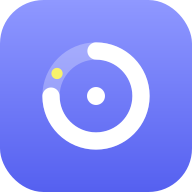
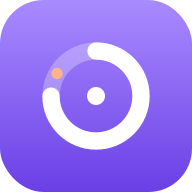
Puasain: palet baru (ungu, mint, coral), beda dari Sehatin
Claude-Session: https://claude.ai/code/session_01NoEHkLCHZJrxCxK8EqiQgr

diff --git a/puasain/index.html b/puasain/index.html
@@ -6,7 +6,7 @@
 
 <!-- PWA -->
 <link rel="manifest" href="manifest.json">
-<meta name="theme-color" content="#F4EFE6">
+<meta name="theme-color" content="#F3F0FA">
 <meta name="mobile-web-app-capable" content="yes">
 <meta name="apple-mobile-web-app-capable" content="yes">
 <meta name="apple-mobile-web-app-status-bar-style" content="black-translucent">
@@ -24,20 +24,20 @@
 <style>
 /* ═══ TOKEN — sama dengan Sehatin (light + dark), ditambah warna Puasain ═══ */
 :root{
-  --cream:#F4EFE6; --white:#FFFFFF; --dark:#1A1A1A; --gray:#888; --gray-light:#E8E3DA;
-  --yellow:#EDE84A; --pink:#F0A8C2; --pink-soft:#FAD9EA; --green:#AEDBA6; --green-dark:#4A8E42;
-  --blue-soft:#C2DFF7; --red:#E53935;
-  --fast:#5B66F0; --fast-soft:#E1E3FF; --eat:#4A8E42; --ink:#1A1A1A;
-  --input-bg:#F4EFE6; --input-focus:#EDEAE0;
+  --cream:#F3F0FA; --white:#FFFFFF; --dark:#1C1530; --gray:#847F96; --gray-light:#E7E2F3;
+  --warm:#FF9B71; --peach:#FFC4A8; --peach-soft:#FFE3D6; --mint:#BDEBDD; --mint-dark:#1F7A63;
+  --lilac-soft:#E4DCFF;
+  --fast:#6A45F0; --fast-soft:#E6DFFF; --eat:#1F9A7E; --ink:#1C1530;
+  --input-bg:#F3F0FA; --input-focus:#EAE5F7;
   --radius:28px; --radius-sm:18px; --nav-h:74px;
   --font:'Plus Jakarta Sans',sans-serif;
   --spring:cubic-bezier(.34,1.56,.64,1); --ease-out:cubic-bezier(.22,1,.36,1);
 }
 body.dark{
-  --cream:#212223; --white:#2B2D33; --dark:#F0EDE6; --gray:#9b9aa1; --gray-light:#3A393D;
-  --yellow:#F8F26C; --pink:#FCD1E6; --pink-soft:#FCD1E6; --green:#96DA7D; --green-dark:#1F4A17;
-  --blue-soft:#ADD8FD; --input-bg:#332E2D; --input-focus:#3A393D; --ink:#212223;
-  --fast:#8E97FF; --fast-soft:#3A3D63; --eat:#96DA7D;
+  --cream:#14101F; --white:#201A33; --dark:#EFEAFB; --gray:#9A95AE; --gray-light:#322A4A;
+  --warm:#FFA67F; --peach:#FFC4A8; --peach-soft:#FFC4A8; --mint:#7FE0C3; --mint-dark:#0F4A3B;
+  --lilac-soft:#C9BBFF; --input-bg:#2A2342; --input-focus:#332B52; --ink:#14101F;
+  --fast:#A78BFA; --fast-soft:#3B2F6B; --eat:#6EE0BE;
 }
 *{margin:0;padding:0;box-sizing:border-box;-webkit-tap-highlight-color:transparent}
 button,input,textarea{font-family:var(--font);outline:none}
@@ -80,8 +80,7 @@ svg{display:block}
 .hero{background:var(--white);border-radius:34px;padding:18px 18px 20px;margin-bottom:12px}
 .hero-top{display:flex;justify-content:space-between;align-items:center;margin-bottom:6px}
 .pill{display:inline-flex;align-items:center;gap:6px;background:var(--fast-soft);color:var(--fast);font-size:12px;font-weight:700;padding:6px 12px;border-radius:30px}
-.pill.eat{background:var(--pink-soft);color:#B03070}
-body.dark .pill.eat{color:#B03070}
+.pill.eat{background:var(--mint);color:var(--mint-dark)}
 .pill .dot{width:7px;height:7px;border-radius:50%;background:currentColor}
 .pill.live .dot{animation:pulse 1.6s ease-in-out infinite}
 @keyframes pulse{0%,100%{opacity:1;transform:scale(1)}50%{opacity:.35;transform:scale(.7)}}
@@ -91,7 +90,7 @@ body.dark .pill.eat{color:#B03070}
 .ring-track{stroke:var(--gray-light)}
 .ring-main{stroke:var(--fast);transition:stroke-dashoffset 1s linear,stroke .3s}
 .ring-main.eat{stroke:var(--eat)}
-.ring-over{stroke:var(--yellow);transition:stroke-dashoffset 1s linear}
+.ring-over{stroke:var(--warm);transition:stroke-dashoffset 1s linear}
 #ring-knob{transform-origin:130px 130px;transition:transform 1s linear}
 .ring-center{position:absolute;inset:0;display:flex;flex-direction:column;align-items:center;justify-content:center;text-align:center;padding:0 40px}
 .rc-label{font-size:11px;font-weight:700;text-transform:uppercase;letter-spacing:.8px;color:var(--gray)}
@@ -106,8 +105,8 @@ body.dark .pill.eat{color:#B03070}
 .btn-ic svg{width:15px;height:15px;fill:var(--dark)}
 .tbox .btn-ic{background:var(--gray-light)}
 .btn-ic:active{transform:scale(.8)}
-.btn-save{width:100%;background:var(--dark);color:var(--yellow);border:none;border-radius:30px;padding:16px;font-size:16px;font-weight:700;cursor:pointer;margin-top:6px;transition:transform .4s var(--spring)}
-body.dark .btn-save{background:var(--yellow);color:var(--ink)}
+.btn-save{width:100%;background:var(--fast);color:#fff;border:none;border-radius:30px;padding:16px;font-size:16px;font-weight:700;cursor:pointer;margin-top:6px;transition:transform .4s var(--spring)}
+body.dark .btn-save{color:var(--ink)}
 .btn-save:active{transform:scale(.96)}
 .btn-cancel-m{width:100%;background:var(--cream);color:var(--gray);border:none;border-radius:30px;padding:13px;font-size:14px;font-weight:600;cursor:pointer;margin-top:8px}
 .btn-link{background:none;border:none;color:var(--gray);font-size:13px;font-weight:600;cursor:pointer;padding:10px;width:100%;margin-top:2px}
@@ -123,31 +122,30 @@ body.dark .btn-save{background:var(--yellow);color:var(--ink)}
 /* ═══ KARTU STAT (gaya Sehatin) ═══ */
 .grid-2{display:grid;grid-template-columns:1fr 1fr;gap:10px;margin-bottom:10px}
 .scard{border-radius:28px;padding:18px;position:relative;overflow:hidden}
-.scard.yellow{background:var(--yellow)}
-.scard.pink{background:var(--pink-soft)}
+.scard.a{background:var(--fast);color:#fff}
+.scard.b{background:var(--lilac-soft);color:#1C1530}
 .scard.dark{background:var(--dark)}
 body.dark .scard.dark{background:var(--white)}
-.scard.yellow,.scard.yellow .scard-num{color:#1A1A1A}
-body.dark .scard.yellow,body.dark .scard.yellow .scard-num{color:#212223}
-.scard.pink{color:#1A1A1A}
-body.dark .scard.pink{color:#212223}
-.scard.dark .scard-label,.scard.dark .scard-unit{color:#F0EDE6}
+body.dark .scard.a{color:var(--ink)}
+.scard.dark .scard-label,.scard.dark .scard-unit{color:#F0EBFF}
 body:not(.dark) .scard.dark .scard-label,body:not(.dark) .scard.dark .scard-unit{color:#fff}
-.scard.dark .scard-num{color:var(--yellow);font-size:26px;letter-spacing:-.5px}
+.scard.dark .scard-num{color:var(--warm);font-size:26px;letter-spacing:-.5px}
 .scard-label{font-size:10px;font-weight:700;text-transform:uppercase;letter-spacing:.8px;opacity:.65;margin-bottom:6px}
 .scard-num{font-size:42px;font-weight:800;line-height:1;letter-spacing:-1px}
 .scard-unit{font-size:12px;opacity:.65;margin-top:3px;font-weight:500}
 .scard-icon{position:absolute;top:16px;right:16px;width:22px;height:22px;opacity:.5;fill:currentColor}
-.scard.pink .scard-icon{fill:#B03070;opacity:.6}
+.scard.b .scard-icon{fill:#6A45F0;opacity:.7}
 .scard-row{display:flex;justify-content:space-between;align-items:center}
-.scard-right{width:38px;height:38px;opacity:.7;fill:var(--fast)}
+.scard-right{width:38px;height:38px;opacity:.7;fill:var(--warm)}
+body.dark .prog-bg{background:rgba(20,16,31,.2)}
+body.dark .prog-fill{background:var(--ink)}
 .prog-label{font-size:11px;opacity:.75;margin:10px 0 5px;font-weight:600}
-.prog-bg{height:6px;background:rgba(0,0,0,.14);border-radius:3px;overflow:hidden}
-.prog-fill{height:100%;background:rgba(0,0,0,.5);border-radius:3px;transition:width .6s}
-.insight-card{background:var(--blue-soft);border-radius:24px;padding:14px 16px;margin-bottom:10px;display:flex;align-items:flex-start;gap:12px;color:#1A1A1A}
-.insight-icon{width:20px;height:20px;flex-shrink:0;margin-top:1px;fill:#1A1A1A}
+.prog-bg{height:6px;background:rgba(255,255,255,.28);border-radius:3px;overflow:hidden}
+.prog-fill{height:100%;background:#fff;border-radius:3px;transition:width .6s}
+.insight-card{background:var(--mint);border-radius:24px;padding:14px 16px;margin-bottom:10px;display:flex;align-items:flex-start;gap:12px;color:#0B2E25}
+.insight-icon{width:20px;height:20px;flex-shrink:0;margin-top:1px;fill:#0B2E25}
 .insight-text{font-size:13px;font-weight:600;line-height:1.5}
-.insight-sub{font-size:11px;font-weight:400;color:#3f566b;margin-top:2px}
+.insight-sub{font-size:11px;font-weight:400;color:#1F5A49;margin-top:2px}
 
 /* ═══ KALENDER ═══ */
 .cal-head{display:flex;align-items:center;justify-content:space-between;margin:4px 0 14px}
@@ -190,8 +188,8 @@ body:not(.dark) .scard.dark .scard-label,body:not(.dark) .scard.dark .scard-unit
 .fr-act{display:flex;gap:6px}
 .fr-act .btn-ic{background:var(--gray-light)}
 .fr-foot{display:flex;gap:6px;flex-wrap:wrap;margin-top:10px}
-.badge{font-size:11px;font-weight:700;padding:4px 11px;border-radius:30px;background:var(--green);color:var(--green-dark)}
-.badge.miss{background:var(--pink-soft);color:#B03070}
+.badge{font-size:11px;font-weight:700;padding:4px 11px;border-radius:30px;background:var(--mint);color:var(--mint-dark)}
+.badge.miss{background:var(--peach-soft);color:#A04A22}
 .badge.n{background:var(--gray-light);color:var(--gray)}
 .badge.live{background:var(--fast-soft);color:var(--fast)}
 .fr-note{font-size:12px;color:var(--gray);margin-top:8px;line-height:1.5;font-style:italic}
@@ -205,7 +203,7 @@ body:not(.dark) .scard.dark .scard-label,body:not(.dark) .scard.dark .scard-unit
 .pills::-webkit-scrollbar{display:none}
 .acc-pill{background:var(--gray-light);border:none;border-radius:50px;padding:9px 18px;font-size:13px;font-weight:700;color:var(--gray);cursor:pointer;white-space:nowrap;flex-shrink:0;transition:background .25s,color .25s,transform .45s var(--spring)}
 .acc-pill:active{transform:scale(.92)}
-.acc-pill.active{background:var(--yellow);color:#1A1A1A}
+.acc-pill.active{background:var(--fast);color:#fff}
 body.dark .acc-pill.active{color:var(--ink)}
 .donut-card{background:var(--white);border-radius:var(--radius);padding:18px;display:flex;align-items:center;gap:18px;margin-bottom:10px}
 .donut{position:relative;width:132px;height:132px;flex-shrink:0}
@@ -225,12 +223,12 @@ body.dark .acc-pill.active{color:var(--ink)}
 .chart-card svg{width:100%;height:auto}
 .chart-card .cb{fill:var(--fast)}
 .chart-card .cb.part{opacity:.5}
-.chart-card .cg{stroke:var(--yellow);stroke-width:2;stroke-dasharray:4 4}
+.chart-card .cg{stroke:var(--warm);stroke-width:2;stroke-dasharray:4 4}
 .chart-card text{fill:var(--gray);font-family:var(--font);font-size:10px;font-weight:600}
 .top-list{display:flex;flex-direction:column;gap:8px}
 .top-item{background:var(--white);border-radius:22px;padding:13px 14px;display:flex;align-items:center;gap:12px}
 .top-rank{font-size:20px;font-weight:800;color:var(--gray-light);width:24px;text-align:center;flex-shrink:0}
-.top-rank.gold{color:var(--yellow)}
+.top-rank.gold{color:var(--warm)}
 .top-info{flex:1}
 .top-name{font-size:14px;font-weight:700}
 .top-cnt{font-size:11px;color:var(--gray);margin-top:1px;font-weight:500}
@@ -248,8 +246,8 @@ body.dark .acc-pill.active{color:var(--ink)}
 .chips{display:flex;flex-wrap:wrap;gap:6px}
 .qchip{background:var(--cream);border:none;border-radius:30px;padding:8px 14px;font-size:13px;font-weight:700;color:var(--dark);cursor:pointer;transition:background .15s,color .15s,transform .4s var(--spring)}
 .qchip:active{transform:scale(.94)}
-.qchip.selected{background:var(--dark);color:var(--yellow)}
-body.dark .qchip.selected{background:var(--yellow);color:var(--ink)}
+.qchip.selected{background:var(--fast);color:#fff}
+body.dark .qchip.selected{color:var(--ink)}
 .set-card .qchip{background:var(--cream)}
 .stepper{display:flex;align-items:center;justify-content:space-between;background:var(--cream);border-radius:22px;padding:8px;margin-top:10px}
 .stepper b{font-size:15px;font-weight:800}
@@ -259,17 +257,17 @@ body.dark .qchip.selected{background:var(--yellow);color:var(--ink)}
 .btn-x{flex:1;display:flex;align-items:center;justify-content:center;gap:7px;border:none;border-radius:28px;padding:13px 10px;font-size:14px;font-weight:700;cursor:pointer;transition:transform .4s var(--spring)}
 .btn-x:active{transform:scale(.96)}
 .btn-x svg{width:16px;height:16px;fill:currentColor}
-.btn-xl{background:#1D6F42;color:#fff}
-.btn-out{background:#FF4C4C;color:#fff}
+.btn-xl{background:var(--fast-soft);color:var(--fast)}
+.btn-out{background:var(--peach-soft);color:#A04A22}
 .btn-gray{background:var(--gray-light);color:var(--dark);width:100%;margin-top:10px}
 
 /* ═══ TAB BAR iOS ═══ */
-.bottom-nav{position:fixed;bottom:calc(16px + env(safe-area-inset-bottom,0px));left:50%;transform:translateX(-50%);width:calc(100% - 32px);max-width:398px;height:var(--nav-h);border-radius:40px;background:rgba(26,26,26,.88);-webkit-backdrop-filter:blur(24px) saturate(1.7);backdrop-filter:blur(24px) saturate(1.7);box-shadow:0 20px 44px -12px rgba(0,0,0,.55),inset 0 1px 0 rgba(255,255,255,.08);display:flex;align-items:center;justify-content:space-around;z-index:100;padding:0 8px}
-body.dark .bottom-nav{background:rgba(51,46,45,.72)}
+.bottom-nav{position:fixed;bottom:calc(16px + env(safe-area-inset-bottom,0px));left:50%;transform:translateX(-50%);width:calc(100% - 32px);max-width:398px;height:var(--nav-h);border-radius:40px;background:rgba(28,21,48,.9);-webkit-backdrop-filter:blur(24px) saturate(1.7);backdrop-filter:blur(24px) saturate(1.7);box-shadow:0 20px 44px -12px rgba(0,0,0,.55),inset 0 1px 0 rgba(255,255,255,.08);display:flex;align-items:center;justify-content:space-around;z-index:100;padding:0 8px}
+body.dark .bottom-nav{background:rgba(42,35,66,.78)}
 .nav-btn{display:flex;flex-direction:column;align-items:center;gap:5px;background:none;border:none;cursor:pointer;padding:9px 6px;border-radius:30px;flex:1;transition:background .35s,transform .5s var(--spring)}
 .nav-btn:active{transform:scale(.88)}
 .nav-btn.active{background:rgba(255,255,255,.14);animation:tab-pop .62s var(--spring)}
-body.dark .nav-btn.active{background:#3A393D}
+body.dark .nav-btn.active{background:#3B2F6B}
 @keyframes tab-pop{0%{transform:scale(.84)}50%{transform:scale(1.07)}100%{transform:scale(1)}}
 .nav-lbl{font-size:9px;font-weight:700;color:var(--gray);letter-spacing:.3px;transition:color .15s}
 .nav-btn.active .nav-lbl{color:#fff}
@@ -281,10 +279,10 @@ body.dark .nav-ic svg{fill:#8f8b8a}
 body.dark .nav-btn.active .nav-ic svg{fill:#F0EDE6}
 .nav-btn.bounce .nav-ic{animation:icon-pop .62s var(--spring) forwards}
 @keyframes icon-pop{0%{transform:scale(.7)}55%{transform:scale(1.25)}100%{transform:scale(1)}}
-.nav-fab{width:54px;height:54px;background:#8E97FF;border-radius:50%;display:flex;align-items:center;justify-content:center;border:none;cursor:pointer;flex-shrink:0;transition:transform .5s var(--spring),background .3s,box-shadow .3s;box-shadow:0 8px 22px -6px rgba(142,151,255,.6)}
+.nav-fab{width:54px;height:54px;background:#B9A4FF;border-radius:50%;display:flex;align-items:center;justify-content:center;border:none;cursor:pointer;flex-shrink:0;transition:transform .5s var(--spring),background .3s,box-shadow .3s;box-shadow:0 8px 22px -6px rgba(185,164,255,.6)}
 .nav-fab:active{transform:scale(.84)}
-.nav-fab svg{width:24px;height:24px;fill:#212223}
-.nav-fab.on{background:#F8F26C;box-shadow:0 8px 22px -6px rgba(248,242,108,.5)}
+.nav-fab svg{width:24px;height:24px;fill:#1C1530}
+.nav-fab.on{background:#FF9B71;box-shadow:0 8px 22px -6px rgba(255,155,113,.55)}
 
 /* ═══ MODAL ═══ */
 .overlay{position:fixed;inset:0;background:rgba(0,0,0,.4);-webkit-backdrop-filter:blur(3px);backdrop-filter:blur(3px);z-index:200;display:none;align-items:flex-end;justify-content:center}
@@ -304,7 +302,7 @@ body.dark .nav-btn.active .nav-ic svg{fill:#F0EDE6}
 body.dark .modal .form-input,body.dark .modal .form-textarea{background:#3A393D;color:#F0EDE6}
 body.dark .modal .form-input:focus,body.dark .modal .form-textarea:focus{background:#444146}
 body.dark .modal .qchip,body.dark .modal .btn-cancel-m{background:#3A393D;color:#d6d4d9}
-body.dark .modal .qchip.selected{background:var(--yellow);color:var(--ink)}
+body.dark .modal .qchip.selected{background:var(--fast);color:var(--ink)}
 .confirm-box{background:var(--white);border-radius:32px;width:calc(100% - 48px);max-width:320px;padding:28px 22px;text-align:center;animation:popIn .25s cubic-bezier(.34,1.5,.64,1)}
 @keyframes popIn{from{transform:scale(.88);opacity:0}to{transform:none;opacity:1}}
 .cf-ic{display:flex;justify-content:center;margin-bottom:10px;color:var(--dark)}
@@ -312,10 +310,10 @@ body.dark .modal .qchip.selected{background:var(--yellow);color:var(--ink)}
 .cf-title{font-size:22px;font-weight:800;margin-bottom:7px;letter-spacing:-.3px}
 .cf-msg{font-size:13px;color:var(--gray);line-height:1.6;margin-bottom:20px}
 .cf-btns{display:flex;gap:8px}
-.btn-dng{flex:1;background:#FF4C4C;color:#fff;border:none;border-radius:24px;padding:13px;font-size:15px;font-weight:700;cursor:pointer}
+.btn-dng{flex:1;background:#E5484D;color:#fff;border:none;border-radius:24px;padding:13px;font-size:15px;font-weight:700;cursor:pointer}
 .btn-neu{flex:1;background:var(--cream);color:var(--dark);border:none;border-radius:24px;padding:13px;font-size:14px;font-weight:600;cursor:pointer}
 body.dark .btn-neu{background:#3A393D;color:#d6d4d9}
-.err{font-size:12px;color:#FF4C4C;font-weight:600;min-height:18px;margin:-4px 0 6px}
+.err{font-size:12px;color:#E5484D;font-weight:600;min-height:18px;margin:-4px 0 6px}
 .toast{position:fixed;bottom:calc(var(--nav-h) + 44px);left:50%;transform:translateX(-50%) translateY(30px);background:var(--dark);color:var(--cream);padding:11px 20px;border-radius:50px;font-size:13px;font-weight:600;z-index:999;opacity:0;pointer-events:none;white-space:nowrap;transition:transform .3s var(--spring),opacity .25s}
 .toast.show{transform:translateX(-50%) translateY(0);opacity:1}
 @media (prefers-reduced-motion:reduce){*{animation:none!important;transition-duration:.01s!important}}
@@ -388,7 +386,7 @@ body.dark .btn-neu{background:#3A393D;color:#d6d4d9}
     <div class="week" id="week"></div>
 
     <div class="grid-2">
-      <div class="scard yellow">
+      <div class="scard a">
         <div class="scard-label">Streak Target</div>
         <div class="scard-num" id="sc-streak">0</div>
         <div class="scard-unit">hari berturut-turut</div>
@@ -396,7 +394,7 @@ body.dark .btn-neu{background:#3A393D;color:#d6d4d9}
         <div class="prog-label" id="sc-prog-l">Mulai streak-mu!</div>
         <div class="prog-bg"><div class="prog-fill" id="sc-prog-f" style="width:0%"></div></div>
       </div>
-      <div class="scard pink">
+      <div class="scard b">
         <div class="scard-label">Rata-rata 7 Hari</div>
         <div class="scard-num" id="sc-avg">0</div>
         <div class="scard-unit">jam / puasa</div>
@@ -572,7 +570,7 @@ const SVG_MOON = '<path d="M240,96a8,8,0,0,1-8,8H216v16a8,8,0,0,1-16,0V104H184a8
 const SVG_SUN = '<path d="M120,40V16a8,8,0,0,1,16,0V40a8,8,0,0,1-16,0Zm72,88a64,64,0,1,1-64-64A64.07,64.07,0,0,1,192,128Zm-16,0a48,48,0,1,0-48,48A48.05,48.05,0,0,0,176,128ZM58.34,69.66A8,8,0,0,0,69.66,58.34l-16-16A8,8,0,0,0,42.34,53.66Zm0,116.68-16,16a8,8,0,0,0,11.32,11.32l16-16a8,8,0,0,0-11.32-11.32ZM192,72a8,8,0,0,0,5.66-2.34l16-16a8,8,0,0,0-11.32-11.32l-16,16A8,8,0,0,0,192,72Zm5.66,114.34a8,8,0,0,0-11.32,11.32l16,16a8,8,0,0,0,11.32-11.32ZM48,128a8,8,0,0,0-8-8H16a8,8,0,0,0,0,16H40A8,8,0,0,0,48,128Zm80,80a8,8,0,0,0-8,8v24a8,8,0,0,0,16,0V216A8,8,0,0,0,128,208Zm112-88H216a8,8,0,0,0,0,16h24a8,8,0,0,0,0-16Z"/>';
 function setDarkIcon(d){
   $('btn-dark').innerHTML = '<svg viewBox="0 0 256 256" fill="currentColor">' + (d ? SVG_SUN : SVG_MOON) + '</svg>';
-  const tc = document.querySelector('meta[name="theme-color"]'); if (tc) tc.setAttribute('content', d ? '#212223' : '#F4EFE6');
+  const tc = document.querySelector('meta[name="theme-color"]'); if (tc) tc.setAttribute('content', d ? '#14101F' : '#F3F0FA');
 }
 function toggleDark(){
   const on = document.body.classList.toggle('dark');
@@ -801,13 +799,13 @@ function renderStats(){
   const list = inRange(period === '7' || period === '30' ? +period : period);
   const ok = list.filter(reached).length, near = list.filter(f => !reached(f) && dur(f.start, f.end) >= f.goal * HOUR * 0.8).length, miss = list.length - ok - near;
   const C = 2 * Math.PI * 58; let off = 0, segs = '';
-  const parts = [[ok, 'var(--fast)'], [near, 'var(--yellow)'], [miss, 'var(--gray-light)']];
+  const parts = [[ok, 'var(--fast)'], [near, 'var(--warm)'], [miss, 'var(--gray-light)']];
   segs += '<circle cx="66" cy="66" r="58" stroke="var(--gray-light)" opacity="' + (list.length ? 0 : 1) + '"/>';
   parts.forEach(pt => { if (!pt[0]) return; const len = pt[0] / list.length * C, gap = parts.filter(x => x[0]).length > 1 ? 5 : 0;
     segs += '<circle cx="66" cy="66" r="58" stroke="' + pt[1] + '" stroke-linecap="round" transform="rotate(' + (-90 + off / C * 360) + ' 66 66)" stroke-dasharray="' + Math.max(0.01, len - gap) + ' ' + C + '"/>'; off += len; });
   $('donut-svg').innerHTML = segs;
   $('dn-n').textContent = list.length ? Math.round(ok / list.length * 100) + '%' : '–';
-  $('dn-legend').innerHTML = [['var(--fast)', 'Tercapai', ok], ['var(--yellow)', 'Hampir (80%+)', near], ['var(--gray-light)', 'Belum', miss]].map(x => '<div class="dl-i"><i style="background:' + x[0] + '"></i>' + x[1] + '<b>' + x[2] + '</b></div>').join('');
+  $('dn-legend').innerHTML = [['var(--fast)', 'Tercapai', ok], ['var(--warm)', 'Hampir (80%+)', near], ['var(--gray-light)', 'Belum', miss]].map(x => '<div class="dl-i"><i style="background:' + x[0] + '"></i>' + x[1] + '<b>' + x[2] + '</b></div>').join('');
   const tot = list.reduce((s, f) => s + dur(f.start, f.end), 0), mx = list.reduce((s, f) => Math.max(s, dur(f.start, f.end)), 0);
   $('st-total').textContent = list.length;
   $('st-avg').textContent = list.length ? (tot / list.length / HOUR).toFixed(1).replace(/\.0$/, '') : '0';
@@ -968,7 +966,7 @@ async function startApp(user){
 Auth.init({
   name: 'Puasain',
   tagline: 'Catat puasa intermiten, hitung jamnya, dan pantau progresmu',
-  accent: '#8E97FF',
+  accent: '#A78BFA',
   icon: '<svg viewBox="0 0 24 24" fill="none" stroke="currentColor" stroke-width="2.4" stroke-linecap="round"><circle cx="12" cy="12" r="8" opacity=".3"/><path d="M12 4a8 8 0 1 1-8 8"/><circle cx="12" cy="12" r="1.8" fill="currentColor" stroke="none"/></svg>',
   onSignIn: function (u) { startApp(u); },
   onSignOut: function () { currentUser = null; window.location.reload(); }

diff --git a/index.html b/index.html
@@ -68,7 +68,7 @@ main{width:100%;max-width:380px;}
       <span class="name">Ekspektasi Hidup</span>
     </a>
     <a class="app" href="puasain/" style="--i:6">
-      <div class="tile" style="--bgc:#8E97FF;--fg:#12143a;--glow:rgba(142,151,255,.55)">
+      <div class="tile" style="--bgc:#A78BFA;--fg:#25104f;--glow:rgba(167,139,250,.55)">
         <svg viewBox="0 0 24 24" fill="none" stroke="currentColor" stroke-width="2.4" stroke-linecap="round"><circle cx="12" cy="12" r="8" opacity=".3"/><path d="M12 4a8 8 0 1 1-8 8"/><circle cx="12" cy="12" r="1.8" fill="currentColor" stroke="none"/></svg>
       </div>
       <span class="name">Puasain</span>
